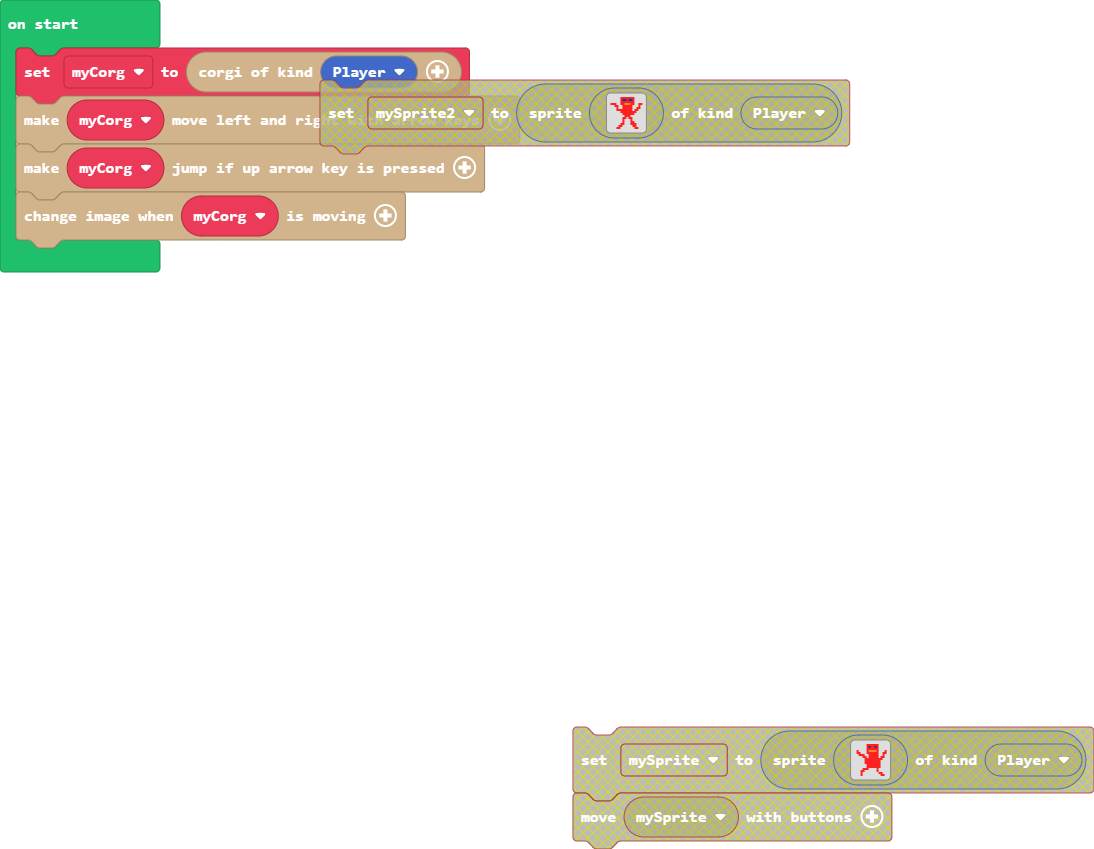
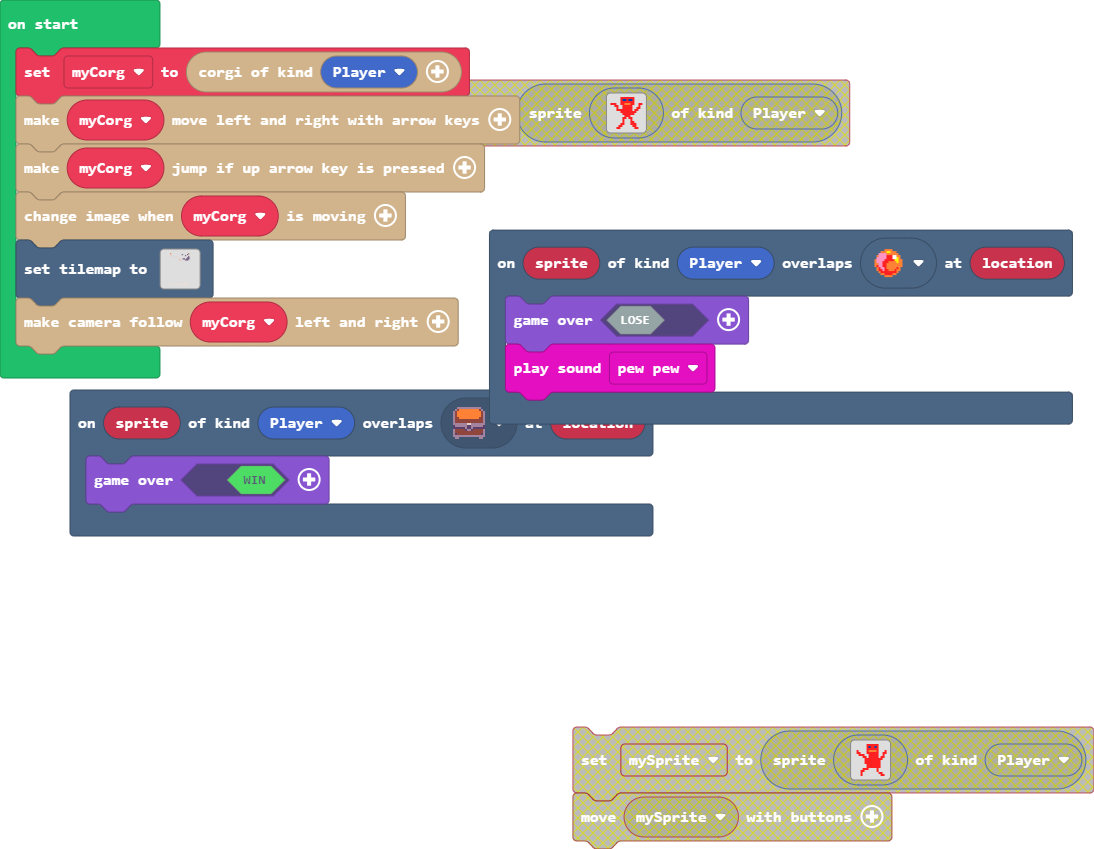
I mainly experimented with the features and now have an idea of what my game will look like and be.

Changed region(s): [[0.0, 0.245, 0.9945, 0.6431], [0.2797, 0.0919, 0.4973, 0.1837]]

diff --git a/main.ts b/main.ts
@@ -1,4 +1,44 @@
+scene.onOverlapTile(SpriteKind.Player, sprites.dungeon.chestClosed, function (sprite, location) {
+    game.over(true)
+})
+scene.onOverlapTile(SpriteKind.Player, sprites.dungeon.collectibleRedCrystal, function (sprite, location) {
+    game.over(false)
+    music.pewPew.play()
+})
 let myCorg = corgio.create(SpriteKind.Player)
 myCorg.horizontalMovement()
 myCorg.verticalMovement()
 myCorg.updateSprite()
[1 lines of base64/hex data omitted]
+    ..................
+    2..........2....2.
+    22............2...
+    .....2...........2
+    ................22
+    ........2...22.22.
+    ........222...22..
+    ..................
+    ..................
+    ..................
+    ..................
+    ..................
+    ..................
+    ..................
+    ..................
+    ..................
+    ..................
+    ..................
+    ..................
+    ..................
+    ..................
+    ..................
+    ..................
+    ..................
+    ..................
+    ..................
+    ..................
+    ..................
+    ..................
+    ..................
+    `, [myTiles.transparency16,sprites.builtin.brick,sprites.dungeon.chestClosed,sprites.dungeon.darkGroundNorth,sprites.castle.tilePath5,sprites.dungeon.collectibleRedCrystal], TileScale.Sixteen))
+myCorg.follow()

diff --git a/tilemap.g.ts b/tilemap.g.ts
@@ -1,0 +1,7 @@
+// Auto-generated code. Do not edit.
+namespace myTiles {
+    //% fixedInstance jres blockIdentity=images._tile
+    export const transparency16 = image.ofBuffer(hex``);
+
+}
+// Auto-generated code. Do not edit.
